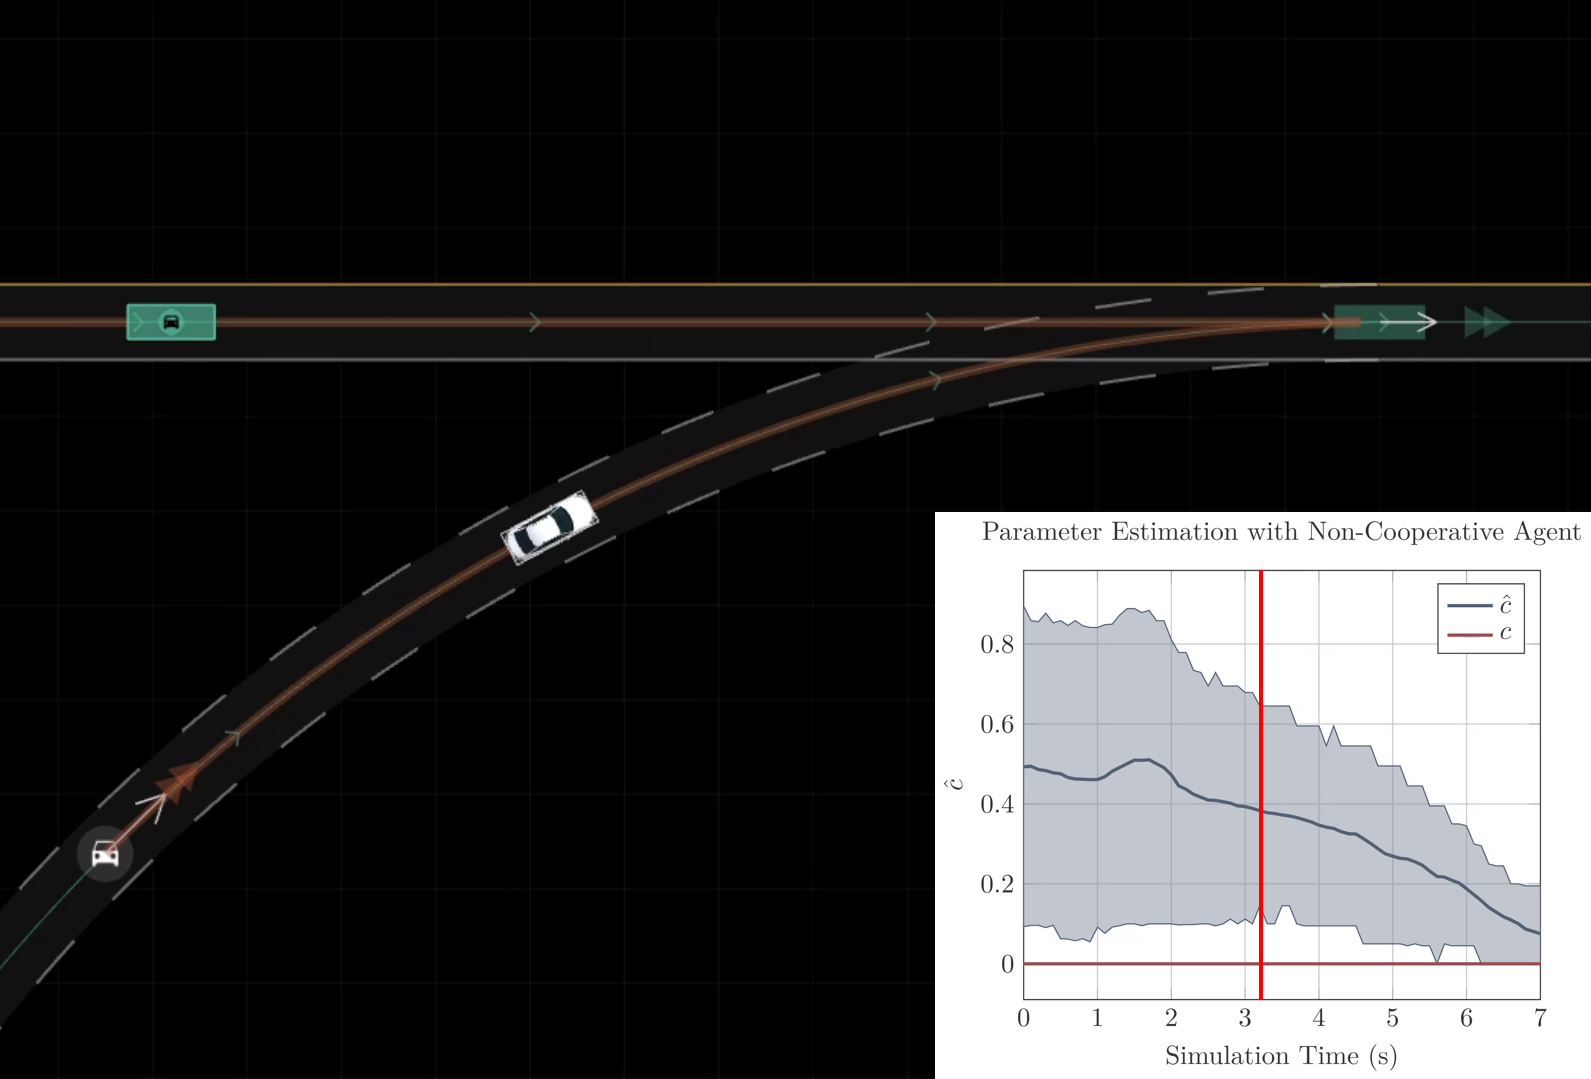
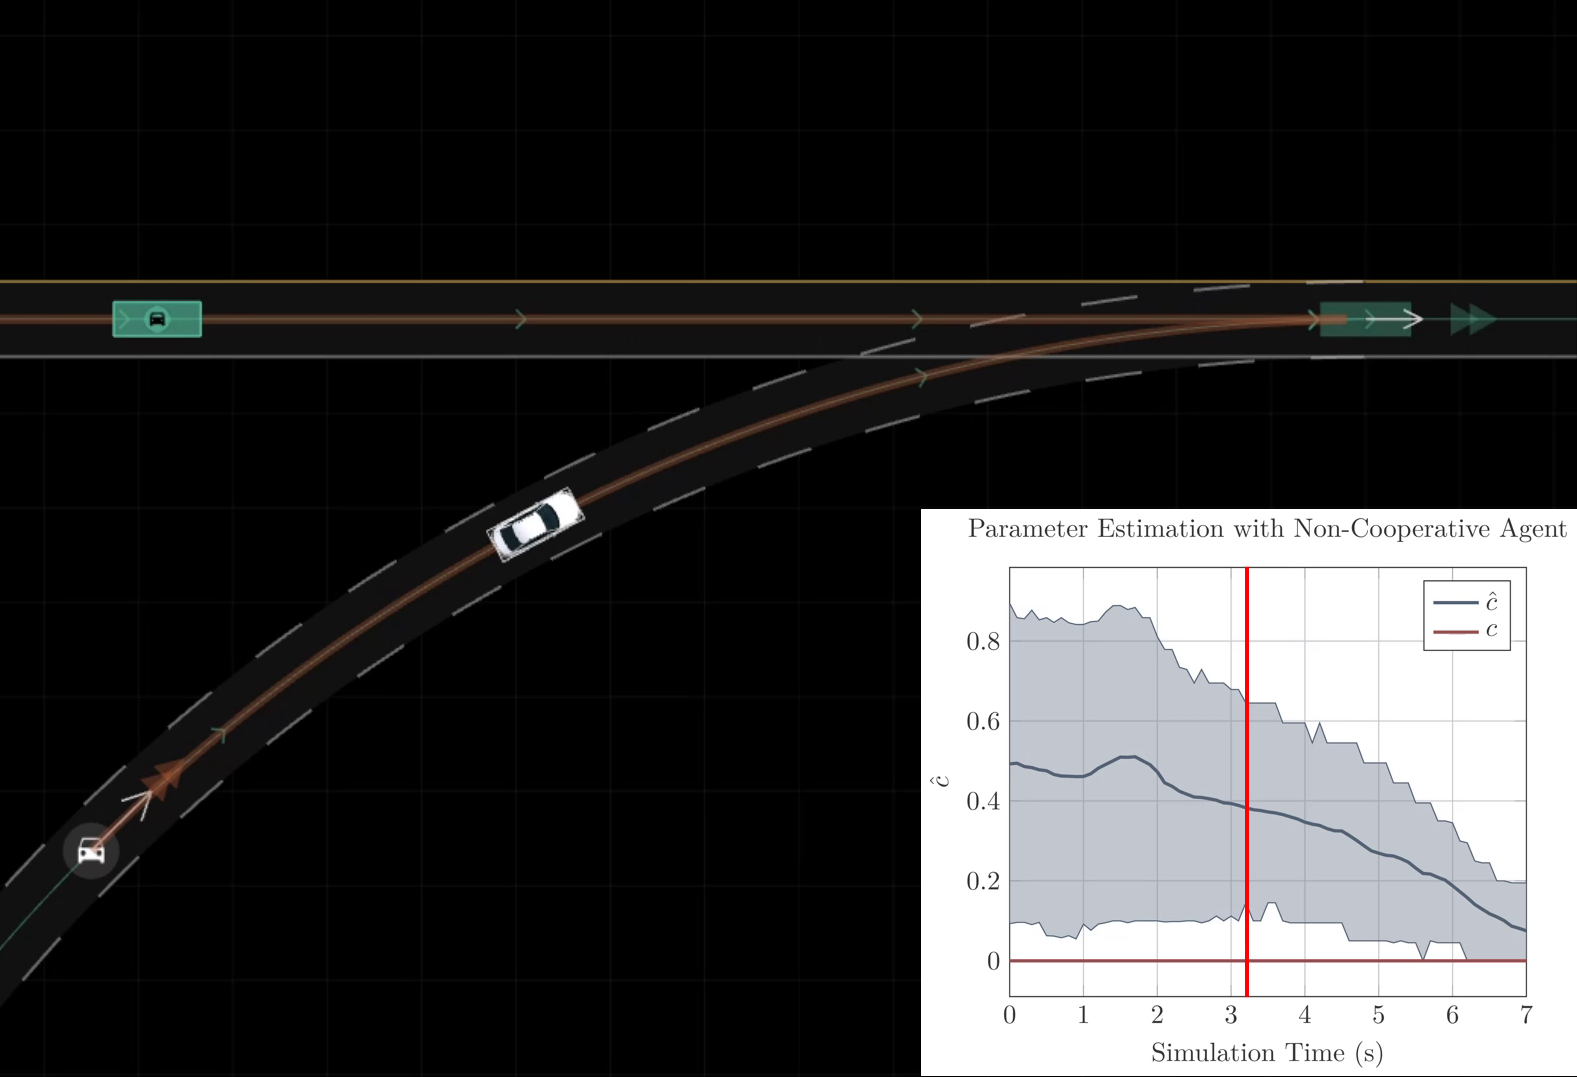
Updating ITSC image, changed file type

diff --git a/index.html b/index.html
@@ -87,7 +87,7 @@
 					<p>A lineup of my publications from the Nebraska Intelligent MoBile Unmanned Systems Lab and the Stanford Intelligent Systems Lab</p>
 					<div class="row gtr-150">
 						<div class="col-4 col-12-medium">
-							<span class="image fit"><img src="images/pic03.PNG" alt="" style="width:auto; height:8em;" /></span>
+							<span class="image fit"><img src="images/pic07.png" alt="" style="width:auto; height:8em;" /></span>
 							<h3>Latent Behavior Estimation</h3>
 							<p>"Uncertainty-Aware Online Merge Planning with Learned Driver Behavior"</p>
 							<ul class="actions special">
@@ -121,7 +121,7 @@
 						<div class="col-4 col-12-medium">
 							<span class="image fit"><img src="images/pic05.PNG" alt="" style="width:auto; height:8em;" /></span>
 							<h3>Cyber Resource Allocation</h3>
-							<p>"Experimental Testing and Validation of Cyber-Physical Coregulation of a Cubesat"</p>
+							<p>"Experimental Testing and Validation of Cyber-Physical Coregulation of a Cubesat				"</p>
 							<ul class="actions special">
 								<li><a href="https://arc.aiaa.org/doi/abs/10.2514/6.2018-5212" class="button">Paper</a></li>
 							</ul>
